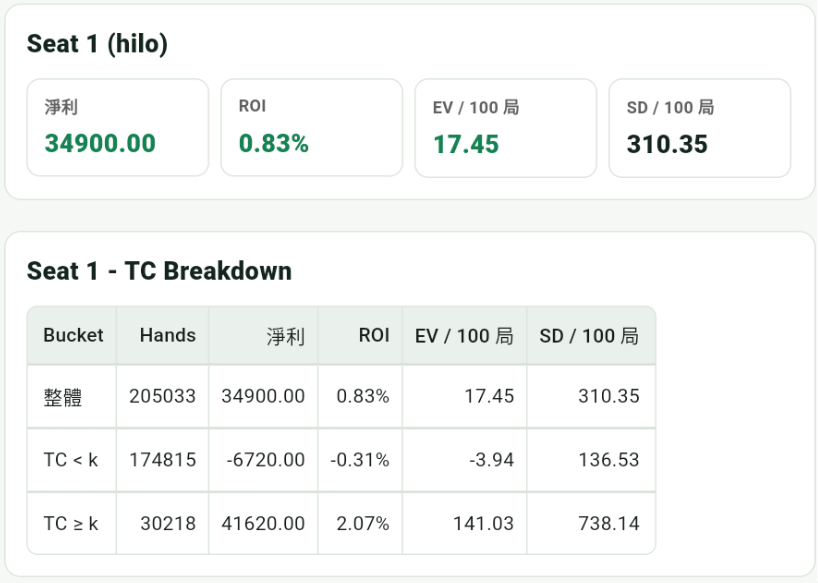
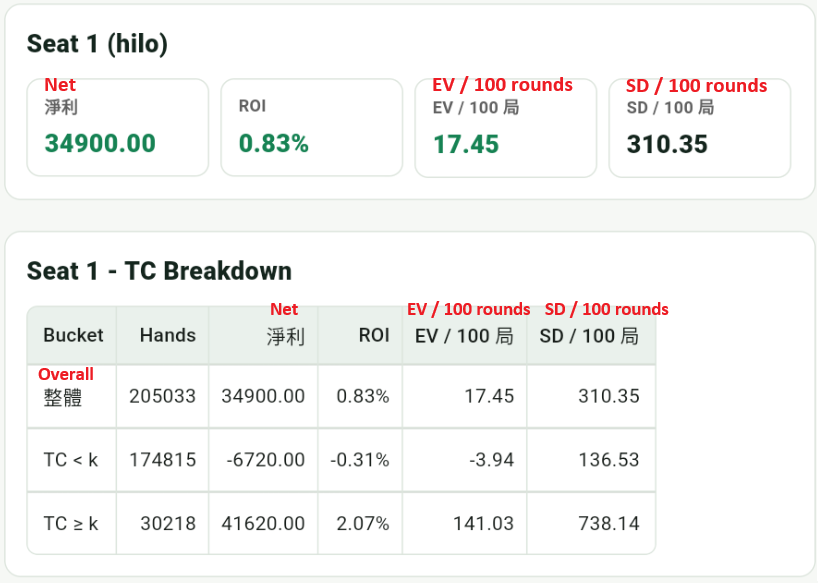
add some app contents

diff --git a/content/app/training.html b/content/app/training.html
@@ -7,8 +7,67 @@
 <body>
   <article>
     <h2>訓練</h2>
-    <p>介紹基本策略訓練、running count 訓練與 true count 練習。</p>
-    <div class="placeholder">之後可放訓練模式截圖</div>
+    <p class="lead">訓練模式把 blackjack 的幾個核心能力拆開練習：決策、Running Count、True Count 換算，以及接近真實發牌流程的 Hi-Lo 算牌。</p>
+
+    <h3 class="simulation-heading">訓練總覽</h3>
+    <div class="app-screenshot-grid">
+      <figure class="app-screenshot-card">
+        <img src="../../assets/img/training1.jpg" alt="訓練首頁顯示 Decision Training、Running Count Drill、True Count Drill 和 Hi-Lo Count Drill">
+        <figcaption>目前包含決策訓練、RC 練習、True Count 計算練習，以及模擬真實發牌的 Hi-Lo 算牌練習。</figcaption>
+      </figure>
+    </div>
+
+    <h3 class="simulation-heading">Decision Training</h3>
+    <div class="app-screenshot-grid">
+      <figure class="app-screenshot-card">
+        <img src="../../assets/img/training2.jpg" alt="Decision Training 可調整 Mode、問題種類並回答牌局決策">
+        <figcaption>上方可以調整 Mode 和問題種類，下方會顯示牌局題目與作答按鈕，用來練習每一手的正確決策。</figcaption>
+      </figure>
+
+      <figure class="app-screenshot-card">
+        <img src="../../assets/img/training3.jpg" alt="Decision Training 提供多種分類練習">
+        <figcaption>可針對不同分類做專項練習，例如硬牌、軟牌、對子、加倍、投降、保險或偏離。</figcaption>
+      </figure>
+    </div>
+
+    <h3 class="simulation-heading">Running Count Drill</h3>
+    <div class="app-screenshot-grid">
+      <figure class="app-screenshot-card">
+        <img src="../../assets/img/training4.jpg" alt="Running Count Drill 可調整 Mode、速度、Length、起始 RC 和 Display Mode">
+        <figcaption>可調整 Mode、牌出現速度、Length、起始 RC，以及 Display Mode。Display 區域會依設定顯示牌，用來訓練追蹤 count 的速度與穩定度。</figcaption>
+      </figure>
+
+      <figure class="app-screenshot-card">
+        <img src="../../assets/img/training5.jpg" alt="Running Count Drill 可選擇作答 Running Count、Card Count 或兩者">
+        <figcaption>作答項目可以選 Running Count、Card Count，或兩者一起練。Card Count 用來確認自己是否同時掌握出現牌數。</figcaption>
+      </figure>
+
+      <figure class="app-screenshot-card">
+        <img src="../../assets/img/training6.jpg" alt="Running Count Drill 作答畫面">
+        <figcaption>作答畫面讓使用者輸入最後的 count 結果，適合練習快速心算與累加。</figcaption>
+      </figure>
+
+      <figure class="app-screenshot-card">
+        <img src="../../assets/img/training7.jpg" alt="Running Count Drill 作答結果畫面">
+        <figcaption>作答後會顯示結果，方便檢查自己在哪一段計算或追蹤時出錯。</figcaption>
+      </figure>
+    </div>
+
+    <h3 class="simulation-heading">True Count Drill</h3>
+    <div class="app-screenshot-grid">
+      <figure class="app-screenshot-card">
+        <img src="../../assets/img/training8.jpg" alt="True Count Drill 給 Running Count 和剩餘牌數讓使用者回答 True Count">
+        <figcaption>True Count 計算練習會給 Running Count 和剩餘牌數，讓使用者練習把 RC 換算成實用的 TC 判斷。</figcaption>
+      </figure>
+    </div>
+
+    <h3 class="simulation-heading">Hi-Lo Count Drill</h3>
+    <div class="app-screenshot-grid">
+      <figure class="app-screenshot-card">
+        <img src="../../assets/img/training9.jpg" alt="Hi-Lo Count Drill 模擬真實發牌並回答 Running Count 和剩餘牌數">
+        <figcaption>Hi-Lo Count Drill 會模擬真實發牌流程，可調整 Players 數量、發牌速度，並練習回答 Running Count 與剩餘牌數。</figcaption>
+      </figure>
+    </div>
   </article>
 </body>
 </html>

diff --git a/content/app/game.html b/content/app/game.html
@@ -7,8 +7,58 @@
 <body>
   <article>
     <h2>遊戲</h2>
-    <p>介紹 App 的一般遊戲模式，讓使用者熟悉 blackjack 決策流程。</p>
-    <div class="placeholder">之後可放遊戲模式截圖</div>
+    <p class="lead">遊戲模式用接近實戰的流程練習 blackjack 決策，並把下注、策略建議、算牌資訊與結果回饋放在同一個畫面中。</p>
+
+    <h3 class="simulation-heading">遊戲流程</h3>
+    <div class="app-screenshot-grid">
+      <figure class="app-screenshot-card">
+        <img src="../../assets/img/game1.jpg" alt="遊戲畫面顯示下注、策略建議、剩餘牌數、Running Count 和 True Count">
+        <figcaption>可以自行調整 Bet，或直接使用 Recommended 建議下注；也能開關決策建議與決策對錯提示。畫面同時顯示剩餘牌數、Decks、Running Count 和 True Count。</figcaption>
+      </figure>
+
+      <figure class="app-screenshot-card">
+        <img src="../../assets/img/game2.jpg" alt="遊戲畫面顯示 Recommended 推薦決策與原因說明">
+        <figcaption>Recommended 會顯示建議動作，並提供對應的策略理由，幫助理解為什麼這手牌應該這樣打。</figcaption>
+      </figure>
+
+      <figure class="app-screenshot-card">
+        <img src="../../assets/img/game3.jpg" alt="遊戲畫面顯示玩家決策後的回饋">
+        <figcaption>做出決策後，app 會給出回饋，讓使用者知道這次選擇是否符合目前設定的判斷模式。</figcaption>
+      </figure>
+    </div>
+
+    <h3 class="simulation-heading">遊戲設定</h3>
+    <div class="app-screenshot-grid">
+      <figure class="app-screenshot-card">
+        <img src="../../assets/img/game4.jpg" alt="遊戲設定可調整判斷模式、牌組數與穿透率">
+        <figcaption>可以調整 Mode，決定 Recommended 與決策對錯要用 Basic、Hi-Lo 或 Hi-Opt I 判斷；也能設定牌組數和穿透率。</figcaption>
+      </figure>
+
+      <figure class="app-screenshot-card">
+        <img src="../../assets/img/game5.jpg" alt="遊戲設定可調整桌面規則與最低賭注">
+        <figcaption>可調整 blackjack 桌面規則與最低賭注，讓練習條件更接近想分析的桌況。</figcaption>
+      </figure>
+
+      <figure class="app-screenshot-card">
+        <img src="../../assets/img/game6.jpg" alt="遊戲設定可調整發牌速度">
+        <figcaption>發牌速度可以自行調整，適合用來練習在不同節奏下追蹤 count。</figcaption>
+      </figure>
+
+      <figure class="app-screenshot-card">
+        <img src="../../assets/img/game7.jpg" alt="遊戲設定可調整 Bet Ramp">
+        <figcaption>Bet Ramp 會影響前面的建議下注，也會影響 Replay 中對 Bet 是否正確的判斷。</figcaption>
+      </figure>
+
+      <figure class="app-screenshot-card">
+        <img src="../../assets/img/game8.jpg" alt="Hi-Opt I 設定畫面">
+        <figcaption>Hi-Opt I 相關設定可用來調整進階算牌模式，包含搭配 A side count 後的判斷方式。</figcaption>
+      </figure>
+
+      <figure class="app-screenshot-card">
+        <img src="../../assets/img/game9.jpg" alt="遊戲設定可調整玩家數量、自己的座位與玩家模式">
+        <figcaption>可設定賭桌上的 Players 數量、自己的座位，以及各玩家使用的 Mode，例如 Basic、Hi-Lo 或 Hi-Opt I。</figcaption>
+      </figure>
+    </div>
   </article>
 </body>
 </html>

diff --git a/content/content.css b/content/content.css
@@ -147,6 +147,38 @@ ul {
   color: #3d4a55;
 }
 
+.app-screenshot-grid {
+  display: grid;
+  grid-template-columns: repeat(2, minmax(0, 1fr));
+  gap: 18px;
+  margin: 18px 0 26px;
+}
+
+.app-screenshot-card {
+  margin: 0;
+  padding: 14px;
+  border: 1px solid #dce4dc;
+  border-radius: 8px;
+  background: #fff;
+}
+
+.app-screenshot-card img {
+  display: block;
+  width: min(100%, 220px);
+  height: auto;
+  margin: 0 auto;
+  border: 1px solid #dce4dc;
+  border-radius: 8px;
+  background: #fff;
+}
+
+.app-screenshot-card figcaption {
+  margin-top: 10px;
+  color: #3d4a55;
+  font-size: 0.93rem;
+  line-height: 1.65;
+}
+
 .content-figure {
   margin: 22px 0 20px;
 }
@@ -180,6 +212,7 @@ ul {
 @media (max-width: 720px) {
   .video-link-card,
   .feature-grid,
+  .app-screenshot-grid,
   .content-figure-grid {
     grid-template-columns: 1fr;
   }

diff --git a/content/app/replay.html b/content/app/replay.html
@@ -7,8 +7,33 @@
 <body>
   <article>
     <h2>回放</h2>
-    <p>介紹回放功能如何回看每一手牌、檢查決策與修正常見錯誤。</p>
-    <div class="placeholder">之後可放回放畫面截圖</div>
+    <p class="lead">Replay 讓使用者回看過去的 game 紀錄，從整體統計、錯誤篩選，到每一步決策細節都能重新檢查。</p>
+
+    <h3 class="simulation-heading">遊玩紀錄與篩選</h3>
+    <div class="app-screenshot-grid">
+      <figure class="app-screenshot-card">
+        <img src="../../assets/img/replay1.jpg" alt="Replay 頁面顯示 game 遊玩紀錄統計與錯誤篩選">
+        <figcaption>Replay 首頁會統計目前的 game 遊玩紀錄，並可用 All、Mistakes、Bet Mistakes、Action Mistakes、Insurance Mistakes 篩選。往下滑可以看到過去 round 的紀錄，並點進去查看細節。</figcaption>
+      </figure>
+    </div>
+
+    <h3 class="simulation-heading">詳細回放</h3>
+    <div class="app-screenshot-grid">
+      <figure class="app-screenshot-card">
+        <img src="../../assets/img/replay2.jpg" alt="Replay 詳細頁顯示 Summary 與錯誤說明">
+        <figcaption>詳細回放頁會顯示 Summary，並整理這一局出現過的錯誤，方便快速了解問題集中在哪些決策上。</figcaption>
+      </figure>
+
+      <figure class="app-screenshot-card">
+        <img src="../../assets/img/replay3.jpg" alt="Replay Timeline 顯示過去決策過程與 Table Snapshot">
+        <figcaption>Timeline 可以逐步查看先前的決策過程，上方的 Table Snapshot 會呈現當下牌桌狀態。</figcaption>
+      </figure>
+
+      <figure class="app-screenshot-card">
+        <img src="../../assets/img/replay4.jpg" alt="Replay Selected Event 顯示 Timeline 當下決策詳細內容">
+        <figcaption>Selected Event 會顯示 Timeline 當下事件的詳細內容，包含該次決策、結果與相關判斷資訊。</figcaption>
+      </figure>
+    </div>
   </article>
 </body>
 </html>

diff --git a/assets/js/main.js b/assets/js/main.js
@@ -49,10 +49,10 @@ const contentHeights = {
   "content/cardcounting/reality.html": 900,
   "content/cardcounting/hiopt.html": 1700,
   "content/app/overview.html": 1600,
-  "content/app/game.html": 900,
-  "content/app/training.html": 900,
+  "content/app/game.html": 7200,
+  "content/app/training.html": 5600,
   "content/app/statistics.html": 900,
-  "content/app/replay.html": 900
+  "content/app/replay.html": 3200
 };
 
 let activeSection = "cardcounting";
@@ -63,17 +63,23 @@ function resizeContentFrame() {
     const doc = contentFrame.contentDocument || contentFrame.contentWindow.document;
     const body = doc.body;
     const root = doc.documentElement;
+    const bottom = Math.max(
+      0,
+      ...[...doc.body.querySelectorAll("article, figure, img, table, .app-screenshot-grid, .app-screenshot-card")]
+        .map((element) => element.getBoundingClientRect().bottom)
+    );
     const height = Math.max(
       body.scrollHeight,
       body.offsetHeight,
       root.clientHeight,
       root.scrollHeight,
-      root.offsetHeight
+      root.offsetHeight,
+      bottom + 40
     );
-        const fallbackHeight = contentHeights[contentFrame.getAttribute("src")] || 900;
+    const fallbackHeight = contentHeights[contentFrame.getAttribute("src")] || 900;
     contentFrame.style.height = `${Math.max(height + 80, fallbackHeight)}px`;
   } catch (error) {
-        const fallbackHeight = contentHeights[contentFrame.getAttribute("src")] || 900;
+    const fallbackHeight = contentHeights[contentFrame.getAttribute("src")] || 900;
     contentFrame.style.height = `${fallbackHeight}px`;
   }
 }
@@ -89,7 +95,11 @@ function watchContentFrameSize() {
     contentFrame._resizeObserver.observe(doc.documentElement);
     contentFrame._resizeObserver.observe(doc.body);
     doc.querySelectorAll("img").forEach((image) => {
-      image.addEventListener("load", resizeContentFrame, { once: true });
+      if (image.complete) {
+        resizeContentFrame();
+      } else {
+        image.addEventListener("load", resizeContentFrame, { once: true });
+      }
     });
   } catch (error) {
     // Same-origin local content is expected; fallback height is handled above.

diff --git a/index.html b/index.html
@@ -101,7 +101,7 @@
     </footer>
   </div>
 
-  <script src="assets/js/main.js"></script>
+  <script src="assets/js/main.js?v=20260523-1"></script>
 </body>
 </html>
 